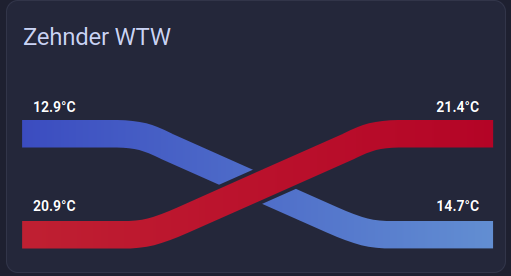
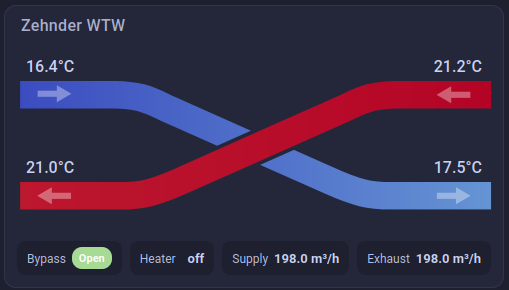
update style

diff --git a/src/hrv-card.ts b/src/hrv-card.ts
@@ -269,12 +269,12 @@ class HRVCard extends LitElement {
    */
 
   private renderSensorRow() {
-  if (!this.config) return html``;
+    if (!this.config) return html``;
 
-  const { bypass, heater, supply_flow, exhaust_flow } = this.config;
-  if (!bypass && !heater && !supply_flow && !exhaust_flow) return html``;
+    const { bypass, heater, supply_flow, exhaust_flow } = this.config;
+    if (!bypass && !heater && !supply_flow && !exhaust_flow) return html``;
 
-  return html`
+    return html`
     <div class="sensor-row">
       ${bypass
         ? html`
@@ -286,8 +286,8 @@ class HRVCard extends LitElement {
               <span class="sensor-label">Bypass</span>
               <span
                 class="sensor-value badge ${this.getBinaryState(bypass)
-                  ? "badge--on"
-                  : "badge--off"}"
+            ? "badge--on"
+            : "badge--off"}"
               >
                 ${this.getBinaryState(bypass) ? "Open" : "Closed"}
               </span>
@@ -315,9 +315,9 @@ class HRVCard extends LitElement {
               @click=${() => this.handleClick(supply_flow)}
               title=${supply_flow}
             >
-              <span class="sensor-label">Supply Flow</span>
+              <span class="sensor-label">Supply</span>
               <span class="sensor-value">
-                ${this.getRawState(supply_flow)}
+                ${this.getRawState(supply_flow)} m³/h
               </span>
             </div>
           `
@@ -330,16 +330,16 @@ class HRVCard extends LitElement {
               @click=${() => this.handleClick(exhaust_flow)}
               title=${exhaust_flow}
             >
-              <span class="sensor-label">Exhaust Flow</span>
+              <span class="sensor-label">Exhaust</span>
               <span class="sensor-value">
-                ${this.getRawState(exhaust_flow)}
+                ${this.getRawState(exhaust_flow)} m³/h
               </span>
             </div>
           `
         : ""}
     </div>
   `;
-}
+  }
 
   /**
    * -------------------------
@@ -358,7 +358,12 @@ class HRVCard extends LitElement {
     const exhaust = get(this.config.exhaust_temp);
 
     return html`
-      <ha-card header="${this.config.title || "HRV System"}">
+      <ha-card>
+        <div class="mini-header">
+          <span class="mini-title">
+            ${this.config.title || "HRV System"}
+          </span>
+        </div>
         <div class="wrap">
           <div class="svg" id="svgContainer"></div>
 
@@ -409,6 +414,23 @@ class HRVCard extends LitElement {
    */
 
   static styles = css`
+    .mini-header {
+      padding: 12px 16px 4px;
+      display: flex;
+      align-items: center;
+    }
+
+    .mini-title {
+      font-size: 16px;
+      font-weight: 500;
+      color: var(--secondary-text-color);
+      opacity: 0.9;
+      letter-spacing: 0.3px;
+      text-transform: none;
+      line-height: 1;
+    }
+      
+
     .wrap {
       position: relative;
       width: 100%;
@@ -429,35 +451,37 @@ class HRVCard extends LitElement {
     .label {
       pointer-events: auto;
       position: absolute;
-      font-size: 14px;
-      font-weight: 600;
-      color: white;
+      font-size: 16px;
+      font-weight: 500;
+      color: var(--primary-text-color);
       padding: 2px 6px;
-      border-radius: 4px;
+      border-radius: 6px;
+      box-shadow: var(--ha-card-box-shadow, none);
+      backdrop-filter: var(--ha-card-backdrop-filter, none);
     }
 
     .label:hover {
-      color: rgb(186, 186, 186);
+      color: var(--primary-color);
     }
 
     .outdoor {
-      top: 9%;
-      left: 4%;
+      top: 7%;
+      left: 3%;
     }
 
     .extract {
-      top: 9%;
-      right: 4%;
+      top: 7%;
+      right: 3%;
     }
 
     .exhaust {
-      bottom: 27%;
-      left: 4%;
+      bottom: 26%;
+      left: 3%;
     }
 
     .supply {
-      bottom: 27%;
-      right: 4%;
+      bottom: 26%;
+      right: 3%;
     }
 
     /* ---- Sensor row ---- */
